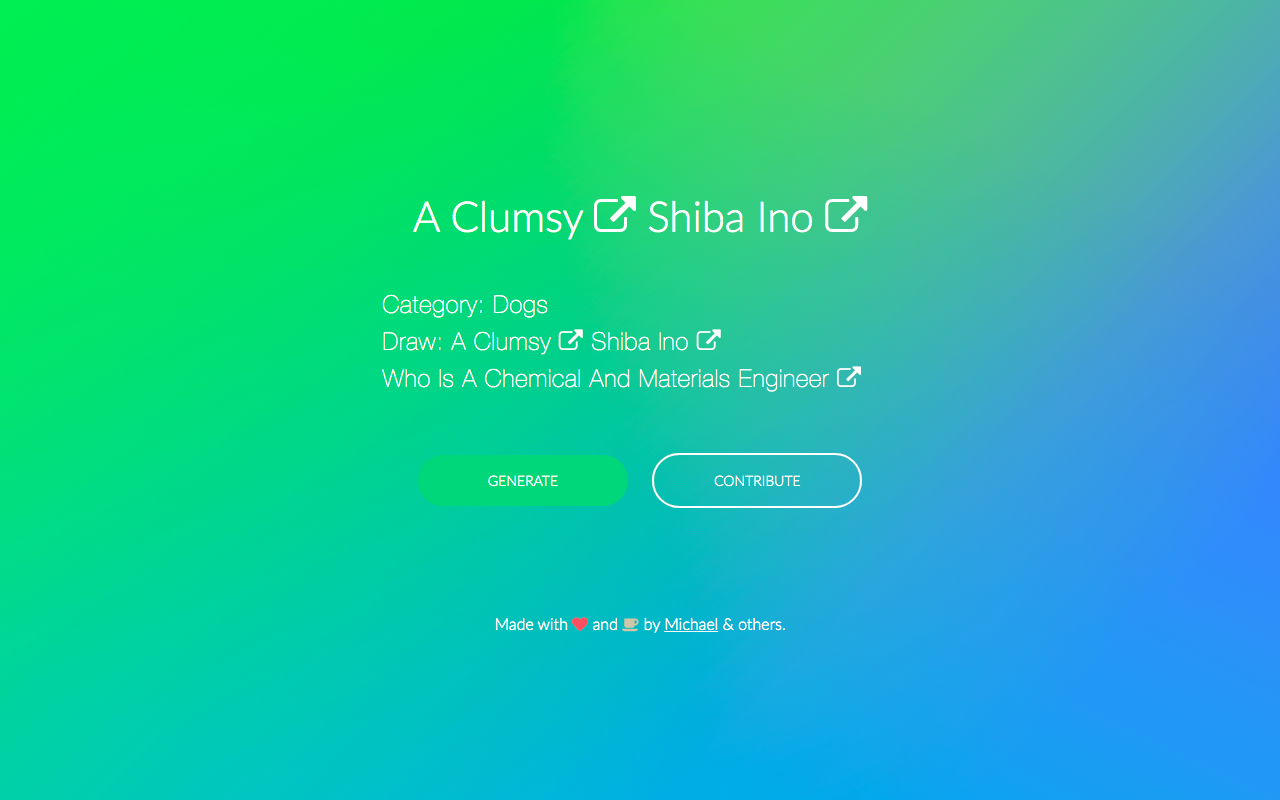
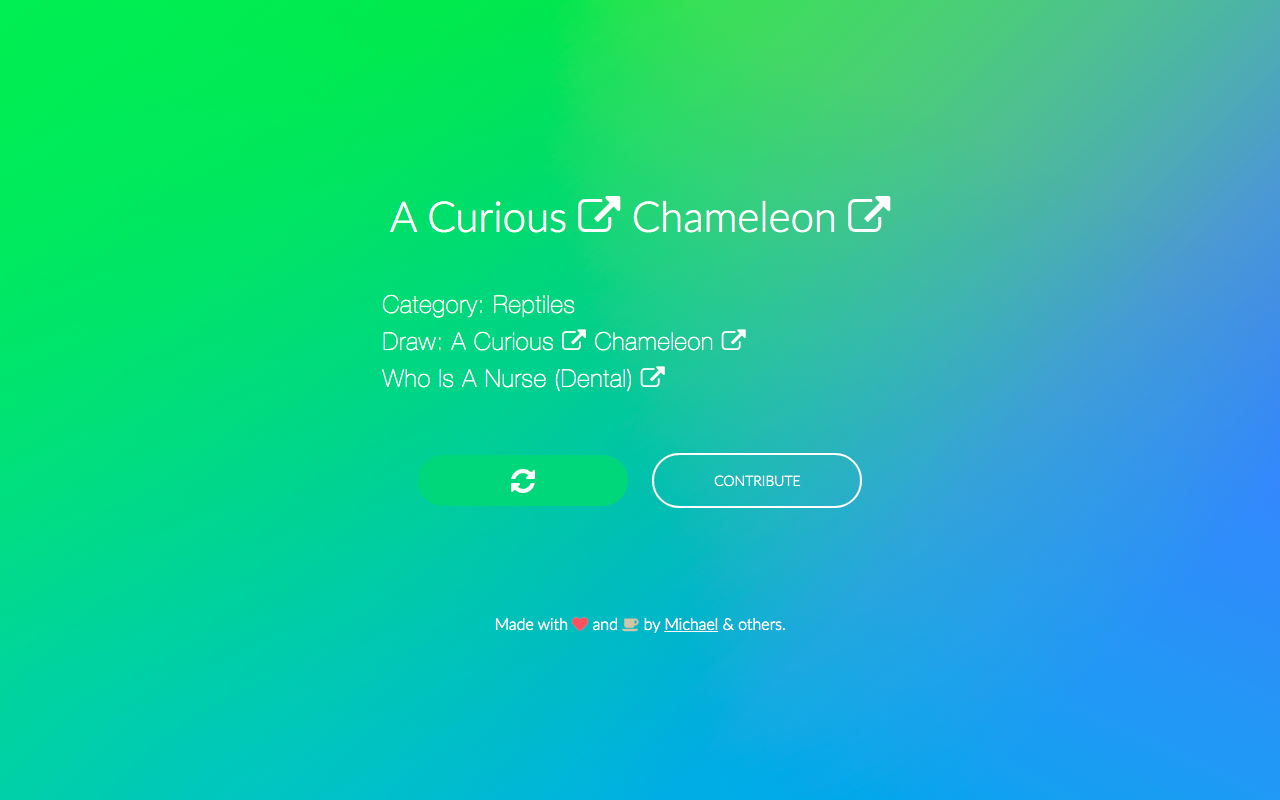
more characteristics and updated scre

Changed region(s): [[0.3125, 0.2188, 0.7188, 0.3125], [0.375, 0.375, 0.6562, 0.5], [0.375, 0.5938, 0.4375, 0.625]]

diff --git a/js/script.js b/js/script.js
@@ -14,13 +14,13 @@ var str, ranMood, moodLink, jobLink, ranJob, ranJSONItem, grabJSObj, output,
       "annoyed",
       "ashamed",
       "asleep",
+      "attractive",
       "awesome",
       "awful",
       "bad",
       "balloon",
       "battle damaged hero",
       "beautiful",
-      "better",
       "blank",
       "blessed",
       "blind",
@@ -120,7 +120,6 @@ var str, ranMood, moodLink, jobLink, ranJob, ranJSONItem, grabJSObj, output,
       "lost",
       "loved",
       "lovely",
-      "low",
       "lucky",
       "mad",
       "magic",
@@ -168,6 +167,7 @@ var str, ranMood, moodLink, jobLink, ranJob, ranJSONItem, grabJSObj, output,
       "safe",
       "sarcastic",
       "satisfied",
+      "savage",
       "scared",
       "scary",
       "sexy",
@@ -190,6 +190,7 @@ var str, ranMood, moodLink, jobLink, ranJob, ranJSONItem, grabJSObj, output,
       "super",
       "supersized",
       "surprised",
+      "tall",
       "tense",
       "terrible",
       "thankful",
@@ -198,6 +199,7 @@ var str, ranMood, moodLink, jobLink, ranJob, ranJSONItem, grabJSObj, output,
       "tiny",
       "tired",
       "ugly",
+      "violent",
       "war hero",
       "weird",
       "welcome",
@@ -220,6 +222,13 @@ var str, ranMood, moodLink, jobLink, ranJob, ranJSONItem, grabJSObj, output,
       "soldier",
       "samurai",
       "full-time parent",
+      "santa's helper",
+      "bully",
+      "super hero",
+      "super villain",
+      "living statue",
+      "witch",
+      "buddhist",
       
       // jobs list acquired from https://joboutlook.gov.au/A-Z
       "Aboriginal and Torres Strait Islander Education Worker",
@@ -1833,7 +1842,12 @@ var str, ranMood, moodLink, jobLink, ranJob, ranJSONItem, grabJSObj, output,
         "gremlin",
         "parent",
         "centaur",
-        "hobo"
+        "hobo",
+        "skunk",
+        "witch",
+        "golem",
+        "buddhist",
+        "god"
       ],
       "dogs":       [
         "dog",

diff --git a/index.html b/index.html
@@ -29,7 +29,7 @@
 
               <div style="margin-bottom: 4em;">
                 <a id="generate" class="btn--success bounceInUp bounceInUp3s">
-                  GENERATE
+                  <i class="fa fa-refresh" style="transform: scale(2);"></i>
                 </a>
                 <a class="btn--borderwhite bounceInUp bounceInUp3s" href="https://github.com/michaelsboost/Character-Party" target="_blank">
                   CONTRIBUTE
